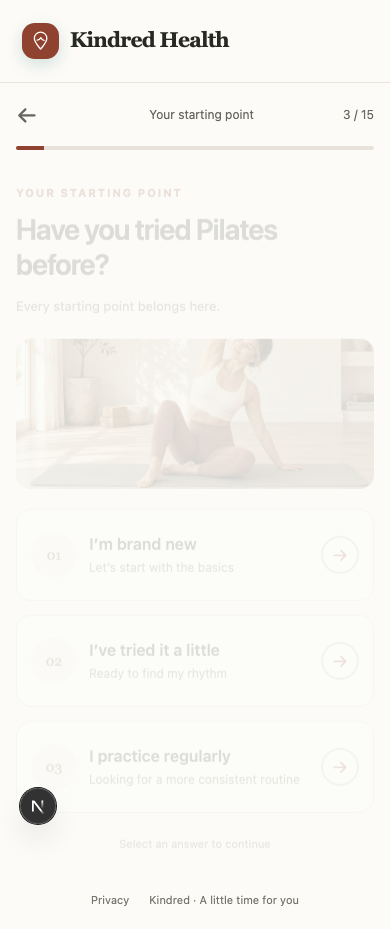
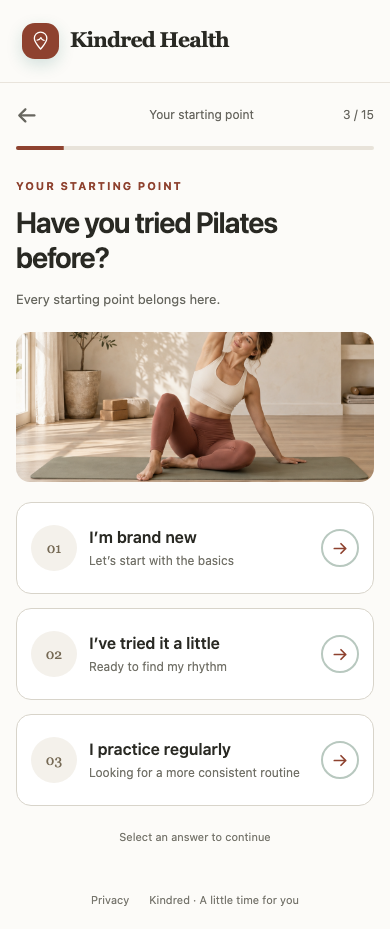
chore: keep review screenshots production-like

diff --git a/tests/e2e/funnel.spec.ts b/tests/e2e/funnel.spec.ts
@@ -22,6 +22,7 @@ test('personal quiz saves each answer, restores measurements, edits and unlocks 
   await page.getByRole('button', { name: 'Continue →' }).click()
   await expect(page).toHaveURL(/\/quiz\/primaryGoal$/)
   await page.getByRole('button', { name: /Lose weight/ }).click()
+  await page.waitForTimeout(350)
   await page.screenshot({ path: 'test-results/question-mobile.png', fullPage: true })
   await page.getByRole('button', { name: /I’m brand new/ }).click()
   await page.getByRole('button', { name: /1–3 days a week/ }).click()

diff --git a/next.config.ts b/next.config.ts
@@ -14,6 +14,7 @@ const nextConfig: NextConfig = {
   poweredByHeader: false,
   reactStrictMode: true,
   typedRoutes: true,
+  devIndicators: false,
   async headers() {
     return [
       {
